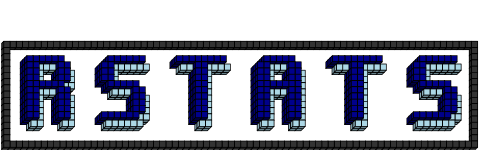
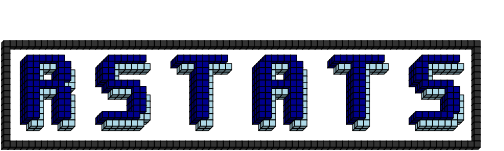
refactor: Misc. changes
* "light_helpers" light function example tweaked to use `rep_len()`
  which may be more robust in certain situations.
* We now prioritize getting the fill color from `gp` over `x`.
* We now return `nullGrob()` if length-zero coordinates passed in.
* If `x` is a data frame we first check if `y` or `z` are `NULL`
  before using `x$y` or `x$z` instead.
* Delete some unused lines in `xyz_heightmap()`.
* Tweak unit tests to increase test coverage.

Changed region(s): [[0.0, 0.2649, 0.9524, 1.0]]

diff --git a/README.md b/README.md
@@ -204,8 +204,8 @@ bm <- (3 * bml) |>
 col <- apply(bm + 1L, c(1, 2), function(i) {
                switch(i, "white", "grey20", "lightblue", "darkblue")
              })
-coords <- xyz_heightmap(bm, col = col, flipy=FALSE)
-grid.oblicubes(coords, width=unit(2.2, "mm"))
+coords <- xyz_heightmap(bm, col = col, flipy = FALSE)
+grid.oblicubes(coords)
 ```
 
 ![](man/figures/README-bitmap_font-1.png)
